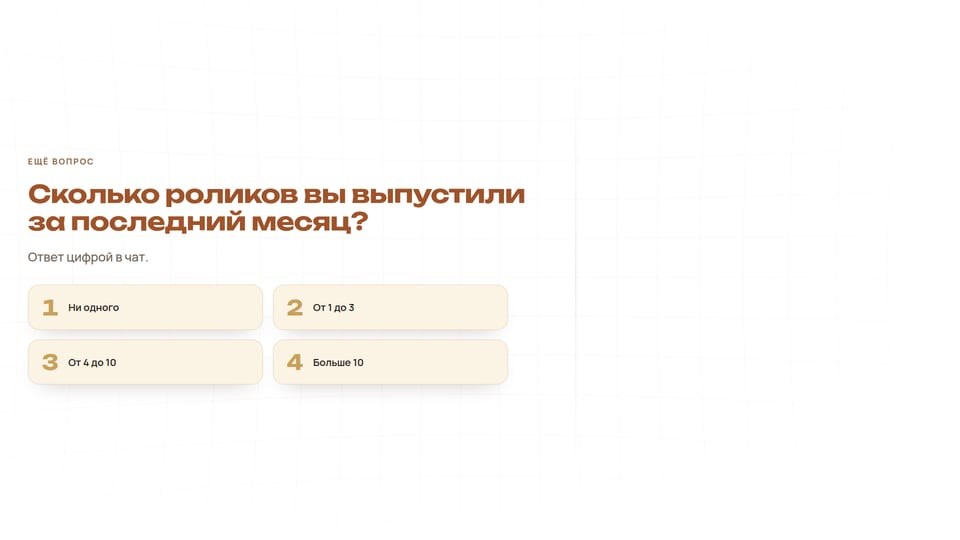
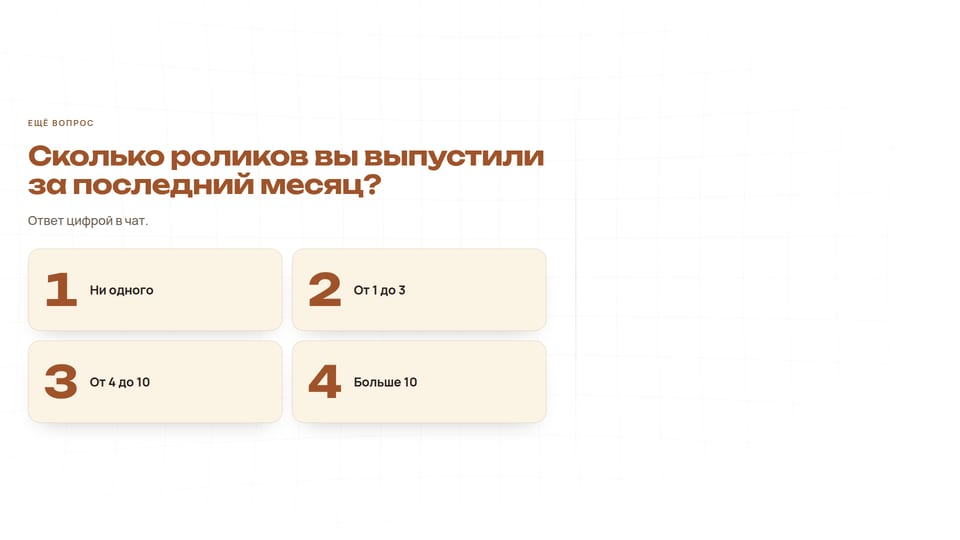
Дека v2, блок «Старт» 02–07
Опросы 03–04 — большие карточки с крупной цифрой Unbounded; программа 05 —
три высокие карточки уроков; обещание 06 — связки прорисовываются по
очереди; гайды 07 и 58 раскрываются веером в 3D. Всё в карточках сайта.

Claude-Session: https://claude.ai/code/session_01JQvD7gcEQ7dhJKPACzWA2i

Changed region(s): [[0.0312, 0.2667, 0.5938, 0.8], [0.0312, 0.2074, 0.0938, 0.237]]

diff --git a/components/montage-deck/slides/start.tsx b/components/montage-deck/slides/start.tsx
@@ -6,21 +6,22 @@ import { useCountUp } from "@/components/sales-deck/useCountUp";
 import { MontageBg } from "../MontageBg";
 import { Phone } from "../Phone";
 import { Statement } from "../Statement";
-import { T, glass } from "../theme";
-import { Arrow, Card, EASE, H, Kicker, Lead, Note, Num, Px, Rise, nb, thousands } from "../ui";
+import { T, card, glass, goldButton } from "../theme";
+import { Arrow, EASE, Em, H, Kicker, Lead, Note, Num, Px, RISE_DUR, Rise, STEP, at, nb, thousands } from "../ui";
 
 const label: React.CSSProperties = { fontFamily: "var(--font-manrope)", fontWeight: 600, fontSize: "1.05cqw", lineHeight: 1.35, color: T.ink };
+const inUp = (i: number, base = 0.28) => ({ initial: { opacity: 0, y: "1cqw" }, animate: { opacity: 1, y: "0cqw" }, transition: { delay: at(i, base), duration: RISE_DUR, ease: EASE } });
 
-/** 2 · Проверка связи. */
+/** 2 · Проверка связи: десять клавиш оценки, «10» — золотая кнопка. */
 export function M_Check() {
   return (
-    <Statement obj="lg-s02-creator" kicker="Перед стартом" title="Как меня видно и слышно?" lead="Оцените от 1 до 10 в чат.">
+    <Statement obj="lg-s02-creator" kicker="Перед стартом" title="Как меня видно и слышно?" lead="Оцените от 1 до 10 в чат." size="3.2cqw">
       <div className="flex gap-[0.6cqw]">
         {Array.from({ length: 10 }, (_, i) => (
-          <motion.div key={i} initial={{ opacity: 0, y: 10 }} animate={{ opacity: 1, y: 0 }} transition={{ delay: 0.35 + i * 0.04, duration: 0.35, ease: EASE }}
+          <motion.div key={i} initial={{ opacity: 0, y: "1cqw" }} animate={{ opacity: 1, y: "0cqw" }} transition={{ delay: 0.25 + i * 0.035, duration: 0.35, ease: EASE }}
             className="flex items-center justify-center"
-            style={{ ...glass, borderRadius: 16, width: "3.6cqw", height: "3.6cqw", fontFamily: "var(--font-unbounded)", fontWeight: 700, fontSize: "1.3cqw",
-              color: i === 9 ? T.ink : T.muted, ...(i === 9 ? { background: `linear-gradient(180deg, ${T.gold}, ${T.gold2})`, border: "none" } : null) }}>
+            style={{ ...card, borderRadius: 16, width: "4.2cqw", height: "4.2cqw", fontFamily: "var(--font-unbounded)", fontWeight: 700, fontSize: "1.5cqw",
+              color: i === 9 ? T.ink : T.brown, ...(i === 9 ? { ...goldButton, border: "none" } : null) }}>
             {i + 1}
           </motion.div>
         ))}
@@ -29,17 +30,16 @@ export function M_Check() {
   );
 }
 
-/** 3–4 · Опрос с цифрами-ответами. */
+/** 3–4 · Опрос: варианты — большие карточки, крупная цифра Unbounded = ответ в чат. */
 export function M_Poll({ kicker, title, lead, options, icons }: { kicker: string; title: string; lead: string; options: string[]; icons?: string[] }) {
   return (
-    <Statement kicker={kicker} title={title} lead={lead} size="2.6cqw">
-      <div className="grid grid-cols-2 gap-[1cqw]" style={{ maxWidth: "50cqw" }}>
+    <Statement kicker={kicker} title={title} lead={lead} size="2.7cqw">
+      <div className="grid grid-cols-2 gap-[1cqw]" style={{ maxWidth: "54cqw" }}>
         {options.map((o, i) => (
-          <motion.div key={o} initial={{ opacity: 0, y: 12 }} animate={{ opacity: 1, y: 0 }} transition={{ delay: 0.35 + i * 0.07, duration: 0.45, ease: EASE }}
-            className="flex items-center gap-[1.1cqw]" style={{ ...glass, borderRadius: 22, padding: "1.2cqw 1.4cqw" }}>
-            <Num size="2.2cqw" color={T.gold2}>{i + 1}</Num>
-            {icons && <Px name={icons[i]} size="3.6cqw" bob={false} delay={0.4 + i * 0.07} />}
-            <span style={label}>{o}</span>
+          <motion.div key={o} {...inUp(i)} className="flex items-center gap-[1.2cqw]" style={{ ...card, minHeight: "8.6cqw", padding: "1.2cqw 1.6cqw" }}>
+            <span style={{ fontFamily: "var(--font-unbounded)", fontWeight: 700, fontSize: "4.6cqw", lineHeight: 1, color: T.brown, fontVariantNumeric: "tabular-nums", minWidth: "3.4cqw" }}>{i + 1}</span>
+            {icons && <Px name={icons[i]} size="4.4cqw" bob={false} delay={0.3 + i * STEP} />}
+            <span style={{ ...label, fontWeight: 700, fontSize: "1.3cqw" }}>{o}</span>
           </motion.div>
         ))}
       </div>
@@ -47,7 +47,7 @@ export function M_Poll({ kicker, title, lead, options, icons }: { kicker: string
   );
 }
 
-/** 5 · Программа эфира: три урока, последний пункт держит до конца. */
+/** 5 · Программа эфира: три высокие карточки уроков в ряд, пункт «в конце» держит до конца. */
 export function M_Program() {
   const lessons = [
     ["Урок 1", "Монтирую рилс вживую, без знаний монтажа", "lg-i-clapper"],
@@ -55,44 +55,46 @@ export function M_Program() {
     ["Урок 3", "Как просмотр сам становится заявкой", "lg-i-chatkey"],
   ];
   return (
-    <Statement kicker="Программа эфира" title="Три урока за вечер" size="3cqw">
-      <div className="grid gap-[0.8cqw]" style={{ maxWidth: "48cqw" }}>
+    <Statement kicker="Программа эфира" title="Три урока за вечер" size="3.2cqw">
+      <div className="grid grid-cols-3 gap-[1cqw]" style={{ maxWidth: "54cqw" }}>
         {lessons.map(([no, t, ic], i) => (
-          <motion.div key={no} initial={{ opacity: 0, x: -16 }} animate={{ opacity: 1, x: 0 }} transition={{ delay: 0.3 + i * 0.1, duration: 0.45, ease: EASE }}
-            className="flex items-center gap-[1.4cqw]" style={{ ...glass, borderRadius: 20, padding: "1.1cqw 1.4cqw" }}>
-            <Px name={ic} size="3.4cqw" bob={false} delay={0.35 + i * 0.1} />
-            <span style={{ fontFamily: "var(--font-unbounded)", fontWeight: 700, fontSize: "0.95cqw", color: T.accent, whiteSpace: "nowrap" }}>{no}</span>
-            <span style={{ ...label, fontSize: "1.2cqw" }}>{t}</span>
+          <motion.div key={no} {...inUp(i)} className="flex flex-col" style={{ ...card, minHeight: "20cqw", padding: "1.4cqw 1.5cqw" }}>
+            <Px name={ic} size="6.4cqw" bob={false} delay={0.3 + i * STEP} style={{ marginLeft: "-0.4cqw" }} />
+            <span style={{ fontFamily: "var(--font-unbounded)", fontWeight: 700, fontSize: "1.9cqw", color: T.brown, marginTop: "1.6cqw" }}>{no}</span>
+            <span style={{ ...label, fontWeight: 700, fontSize: "1.25cqw", marginTop: "0.6cqw" }}>{t}</span>
           </motion.div>
         ))}
-        <motion.div initial={{ opacity: 0, x: -16 }} animate={{ opacity: 1, x: 0 }} transition={{ delay: 0.65, duration: 0.45, ease: EASE }}
-          className="flex items-center gap-[1.4cqw]" style={{ borderRadius: 20, padding: "1.1cqw 1.4cqw", border: `1.5px dashed ${T.gold2}`, background: "rgba(227,192,123,.12)" }}>
-          <Px name="lg-i-calendar" size="3.4cqw" bob={false} delay={0.7} />
-          <span style={{ fontFamily: "var(--font-unbounded)", fontWeight: 700, fontSize: "0.95cqw", color: T.gold2, whiteSpace: "nowrap" }}>В конце</span>
-          <span style={{ ...label, fontSize: "1.2cqw" }}>Схема на 30 роликов в месяц</span>
-        </motion.div>
       </div>
+      <motion.div {...inUp(3)} className="flex items-center gap-[1.2cqw]"
+        style={{ maxWidth: "54cqw", marginTop: "1cqw", borderRadius: 20, padding: "0.8cqw 1.4cqw", border: `1.5px dashed ${T.gold2}`, background: `${T.gold}1F` }}>
+        <Px name="lg-i-calendar" size="3.2cqw" bob={false} delay={0.5} />
+        <span style={{ fontFamily: "var(--font-unbounded)", fontWeight: 700, fontSize: "0.95cqw", color: T.gold2, whiteSpace: "nowrap" }}>В конце</span>
+        <span style={{ ...label, fontWeight: 700, fontSize: "1.2cqw" }}>Схема на 30 роликов в месяц</span>
+      </motion.div>
     </Statement>
   );
 }
 
-/** 6 · Большое обещание. */
+/** 6 · Большое обещание: ролик → реклама → заявка, связки прорисовываются по очереди. */
 export function M_Promise() {
   const chain = ["Ролик", "Реклама", "Заявка"];
   const icons = ["lg-i-cards", "lg-i-box", "lg-i-chatkey"];
   return (
-    <Statement kicker="Что увидите сегодня" title="Покажу контент-завод целиком: ролик, реклама и заявка" lead="Без монтажёра, без съёмки, без знаний кода." size="2.7cqw">
-      <div className="flex items-end gap-[1.4cqw]">
+    <Statement kicker="Что увидите сегодня" title={<>Покажу контент-завод целиком: ролик, реклама и <Em>заявка</Em></>} lead="Без монтажёра, без съёмки, без знаний кода." size="2.8cqw">
+      <div className="flex items-end gap-[1.2cqw]">
         {chain.map((c, i) => (
-          <div key={c} className="flex items-center gap-[1.4cqw]">
+          <div key={c} className="flex items-center gap-[1.2cqw]">
             <div className="flex flex-col items-center gap-[0.6cqw]">
-            <Px name={icons[i]} size="7cqw" delay={0.35 + i * 0.15} />
-            <motion.div initial={{ opacity: 0, scale: 0.9 }} animate={{ opacity: 1, scale: 1 }} transition={{ delay: 0.4 + i * 0.15, duration: 0.4, ease: EASE }}
-              style={{ ...glass, borderRadius: 999, padding: "0.9cqw 1.8cqw", fontFamily: "var(--font-unbounded)", fontWeight: 700, fontSize: "1.2cqw", color: i === 2 ? T.accent : T.ink }}>
-              {c}
-            </motion.div>
+              <Px name={icons[i]} size="7.4cqw" delay={0.3 + i * 0.12} />
+              <motion.div {...inUp(i * 2)}
+                style={{ ...(i === 2 ? goldButton : card), borderRadius: 999, padding: "0.9cqw 1.8cqw", fontFamily: "var(--font-unbounded)", fontWeight: 700, fontSize: "1.25cqw", color: i === 2 ? T.ink : T.brown }}>
+                {c}
+              </motion.div>
             </div>
-            {i < chain.length - 1 && <Arrow />}
+            {i < chain.length - 1 && (
+              <motion.div initial={{ scaleX: 0, opacity: 0 }} animate={{ scaleX: 1, opacity: 1 }} transition={{ delay: at(i * 2 + 1, 0.28), duration: 0.35, ease: EASE }}
+                style={{ transformOrigin: "left", paddingBottom: "1.4cqw" }}><Arrow size="1.8cqw" /></motion.div>
+            )}
           </div>
         ))}
       </div>
@@ -100,19 +102,40 @@ export function M_Promise() {
   );
 }
 
-/** 7 и 58 · Три гайда за досмотр. */
+/** Обложка гайда: книжка с кикером, лего-значком и названием. */
+function GuideCover({ no, title, text, icon, gold }: { no: number; title: string; text: string; icon: string; gold?: boolean }) {
+  return (
+    <div className="flex h-full w-full flex-col" style={{
+      borderRadius: "1.2cqw", padding: "1.4cqw 1.3cqw", overflow: "hidden",
+      background: gold ? `linear-gradient(160deg, ${T.card}, ${T.gold}66)` : `linear-gradient(160deg, ${T.paper}, ${T.card})`,
+      border: `1.5px solid ${gold ? T.gold2 : T.line}`, boxShadow: `0 2.4cqw 4cqw -2cqw rgba(42,33,28,.42)`,
+    }}>
+      <div style={{ fontFamily: "var(--font-manrope)", fontWeight: 700, fontSize: "0.72cqw", letterSpacing: ".16em", textTransform: "uppercase", color: gold ? T.brown : T.accent }}>Гайд {no}</div>
+      <Px name={icon} size="5.6cqw" bob={false} delay={0.5} style={{ margin: "1cqw 0 0 -0.3cqw" }} />
+      <div style={{ fontFamily: "var(--font-unbounded)", fontWeight: 700, fontSize: "1.2cqw", lineHeight: 1.2, color: T.brown, marginTop: "auto" }}>{title}</div>
+      <div style={{ fontFamily: "var(--font-manrope)", fontWeight: 500, fontSize: "0.82cqw", lineHeight: 1.4, color: T.muted, marginTop: "0.6cqw" }}>{text}</div>
+      <div style={{ height: "0.3cqw", borderRadius: 2, marginTop: "1cqw", width: "40%", background: gold ? T.gold2 : T.line }} />
+    </div>
+  );
+}
+
+/** 7 и 58 · Три гайда за досмотр: обложки раскрываются веером в 3D из одной стопки. */
 export function M_Guides({ kicker, title, lead }: { kicker: string; title: string; lead: string }) {
   const guides = [
     ["Как делать вирусный рилс", "Правило первых 3 секунд и пробные рилсы", "lg-i-rocket"],
     ["Контент-план на месяц", "И схема выкладки: что и когда публиковать", "lg-i-calfilm"],
     ["30 хуков под вашу нишу", "Первые фразы, с которых ролик не пролистывают", "lg-i-hook"],
   ];
+  const fan = [{ x: -12, r: -11, ry: 16, y: 1.2 }, { x: 0, r: 0, ry: 0, y: -0.6 }, { x: 12, r: 11, ry: -16, y: 1.2 }];
   return (
-    <Statement kicker={kicker} title={title} lead={lead} size="2.6cqw">
-      <div className="grid grid-cols-3 gap-[1cqw]" style={{ maxWidth: "54cqw" }}>
+    <Statement kicker={kicker} title={title} lead={lead} size="2.8cqw">
+      <div className="relative" style={{ width: "44cqw", height: "22cqw", perspective: "1600px", marginTop: "0.6cqw" }}>
         {guides.map(([t, d, ic], i) => (
-          <motion.div key={t} initial={{ opacity: 0, y: 18, rotate: i === 1 ? 0 : i === 0 ? -2 : 2 }} animate={{ opacity: 1, y: 0, rotate: 0 }} transition={{ delay: 0.35 + i * 0.1, duration: 0.5, ease: EASE }}>
-            <Card icon={ic} no={`Гайд ${i + 1}`} title={t} text={d} accent={i === 1} style={{ height: "100%" }} />
+          <motion.div key={t} className="absolute top-0" style={{ left: "50%", marginLeft: "-7.5cqw", width: "15cqw", height: "20cqw", zIndex: i === 1 ? 3 : 1, transformOrigin: "50% 100%" }}
+            initial={{ opacity: 0, x: "0cqw", y: "3cqw", rotate: 0, rotateY: 0 }}
+            animate={{ opacity: 1, x: `${fan[i].x}cqw`, y: `${fan[i].y}cqw`, rotate: fan[i].r, rotateY: fan[i].ry }}
+            transition={{ delay: 0.3 + (i === 1 ? 0 : 0.08), duration: 0.6, ease: EASE }}>
+            <GuideCover no={i + 1} title={t} text={d} icon={ic} gold={i === 1} />
           </motion.div>
         ))}
       </div>

diff --git a/docs/deck-v2/REPORT.md b/docs/deck-v2/REPORT.md
@@ -13,6 +13,7 @@
 | 2. Тема | `theme.ts` собран из `fx/brand.ts`; фон, карточки, заголовки, кикеры, чипы, логотип и телефон — в токенах сайтов; номер слайда убран из зоны камеры | `275d715` |
 | 3. Обложка и главы | 01 — ночная обложка на тоннеле рилсов, текст на тёмном поле слева; главы 11, 24, 33, 42, 51 — ночь, поле столбиков, огромная золотая цифра с бликом, заголовок следом, без глитча | `20099df` |
 | 4. Результаты за месяц | `results.ts` — все цифры трёх слайдов и воронки 44 в одном файле; слайды 22r, 46r, 47r; скрины из `public/montage/results/` подхватываются сами | `65c5d67` |
+| 5. Остальные блоки | по блокам, коммит на блок — таблица ниже | см. «Шаг 5» |
 
 ### Шаг 1. Эффекты под бренд
 - **VoxelField** — ночной фон `#14100E`, грани столбиков — оттенки `#211A16` с коричневым, гребень волны золотом `#E3C07B`. Поле сдвинуто влево (вершина на 34% ширины) и закрыто маской `CAMERA_SAFE_MASK`: правее 59% — чистый ночной фон. Скрин: `shots/fx-voxel.jpg`.
@@ -46,6 +47,20 @@
 - Макет проверен с тестовыми длинными числами (1 234 567 просмотров, «40 секунд» и т.п.) и картинками на плитах — ничего не вылезает за 60% и не наезжает. Тестовые числа и картинки в коммит не попали.
 - Ключи новых слайдов `22r`, `46r`, `47r`; существующие ключи и клавиши 0–5 на слайде 56 не сдвинулись. Слайдов стало 63.
 - `ExtrudedNumber` докручивается за 1,5 с вместо 1,8 с — цифра успевает встать до скриншота через 2,5 с после листания.
+
+### Шаг 5. Блоки
+
+| Блок | Что сделано | Коммит |
+|---|---|---|
+| Старт 02–07 | опросы большими карточками с крупной цифрой, программа — три высокие карточки, гайды веером в 3D | BLOCKHASH |
+
+#### Старт 02–07
+- **02** — десять клавиш оценки крупнее, в карточках сайта; «10» — золотая кнопка.
+- **03–04** — варианты большими карточками 2×2, крупная цифра Unbounded 4,6cqw коричневым = ответ в чат; на 03 лего-значки остались.
+- **05** — три высокие карточки уроков в ряд (лего-значок, «Урок N», текст); ниже пунктирная золотая строка «В конце · Схема на 30 роликов в месяц».
+- **06** — цепочка «Ролик → Реклама → Заявка»: стрелки прорисовываются по очереди, «Заявка» — золотая кнопка, в заголовке «заявка» — слово-акцент.
+- **07 и 58** — три обложки гайдов раскрываются веером в 3D из одной стопки (наклон и поворот карточек). `GiftBox3D` не взят: он в лайме и чёрном, перекрасить пропсами нельзя.
+- Въезд: шаг 70 мс, всё на месте к ~0,7 с.
 
 ## Проверки
 - `npx tsc --noEmit`: в `components/montage-deck/` и `app/montage*` ошибок 0. Всего в проекте 4 ошибки, все были до меня и вне разрешённых папок: `components/ui/highlighted.tsx`, `next.config.ts` (ключ `eslint`), `tests/landing.spec.ts` ×2. Их не трогал.
